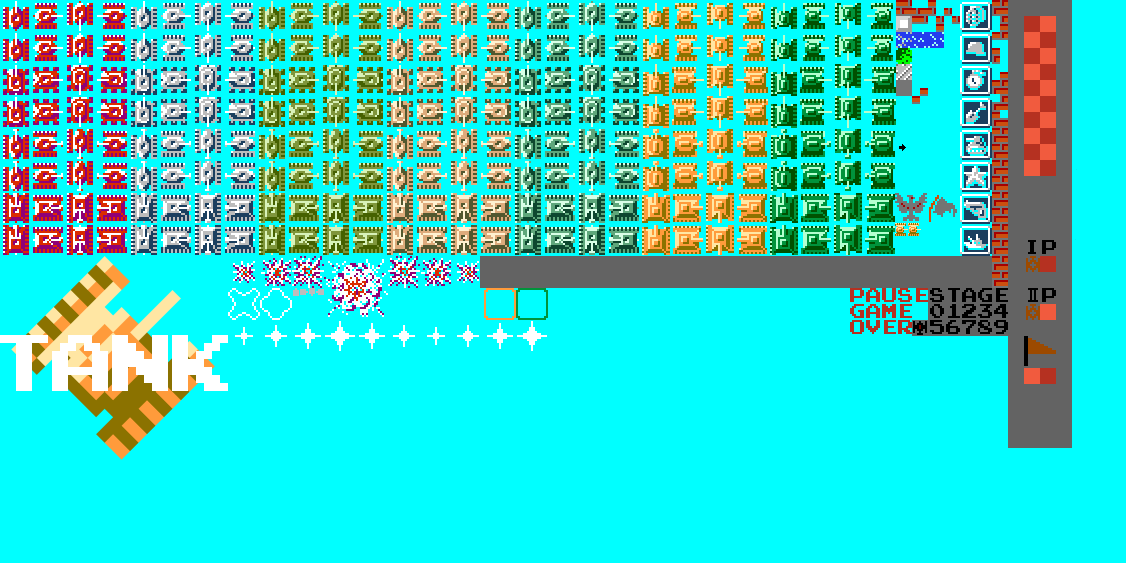
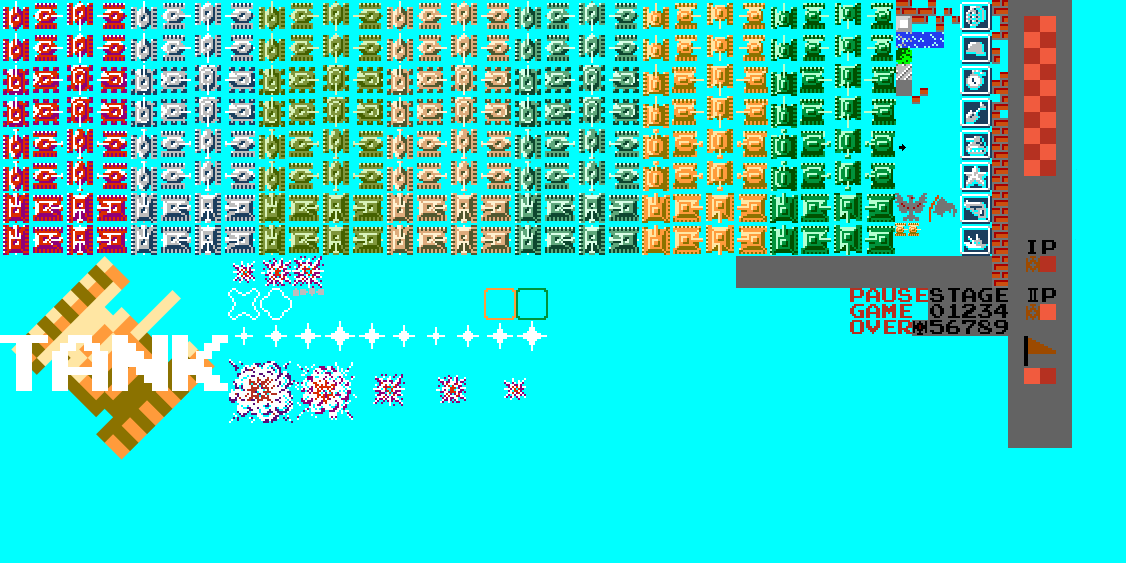
explosion animation for tanks

Changed region(s): [[0.2798, 0.4529, 0.6528, 0.5737], [0.1865, 0.6341, 0.4663, 0.7549]]

diff --git a/src/main/java/ua/drozda/battlecity/fx/sprites/FxSpriteBigExplosion.java b/src/main/java/ua/drozda/battlecity/fx/sprites/FxSpriteBigExplosion.java
@@ -1,0 +1,71 @@
+package ua.drozda.battlecity.fx.sprites;
+
+import javafx.geometry.Rectangle2D;
+import ua.drozda.battlecity.core.ActiveUnit;
+import ua.drozda.battlecity.core.GameUnit;
+import ua.drozda.battlecity.core.TankUnit;
+import ua.drozda.battlecity.fx.FxWorld;
+
+/**
+ * Created by GFH on 13.07.2015.
+ */
+public class FxSpriteBigExplosion extends FxSprite<TankUnit> {
+    static private Long explosionTimer = ActiveUnit.ONE_SECOND / 10;
+    private static Rectangle2D[] explosionTiles;
+
+    static {
+        explosionTiles = new Rectangle2D[5];
+        for (int i = 0; i < 5; i++) {
+            explosionTiles[i] = new Rectangle2D(229 + FxWorld.tileSize * 4 * i, 359, FxWorld
+                    .tileSize * 4, FxWorld.tileSize * 4);
+        }
+    }
+
+    public FxSpriteBigExplosion(TankUnit gameUnit) {
+        super(gameUnit);
+        xProperty().unbind();
+        yProperty().unbind();
+        xProperty().setValue(gameUnit.getX() - 16);
+        yProperty().setValue(gameUnit.getY() - 16);
+        gameUnit.xProperty().addListener((observable, oldValue, newValue) -> {
+            this.xProperty().setValue(newValue.doubleValue() - 16);
+            System.out.println("TanknewX = " + newValue.doubleValue());
+            System.out.println("TilenewX = " + xProperty().getValue());
+
+        });
+        gameUnit.yProperty().addListener((observable, oldValue, newValue) -> {
+            this.yProperty().setValue(newValue.doubleValue() - 16);
+            System.out.println("TanknewY = " + newValue.doubleValue());
+            System.out.println("TilenewY = " + yProperty().getValue());
+        });
+        maxToggle = 5;
+        setViewPort(explosionTiles[this.curToggle]);
+    }
+
+    @Override
+    public Boolean canToggle(Long now) {
+        return (getGameUnit().getBasicState() == GameUnit.BasicState.EXPLODING) && (now - toggleTime >= explosionTimer);
+    }
+
+    @Override
+    protected int getMaxToggle() {
+        return maxToggle;
+    }
+
+    @Override
+    protected void updateSprite() {
+        setViewPort(explosionTiles[this.curToggle]);
+    }
+
+    @Override
+    public void doToggle(Long now) {
+        if (curToggle < getMaxToggle()) {
+            updateSprite();
+            curToggle++;
+        }
+        if (curToggle == getMaxToggle()) {
+            curToggle = getMaxToggle() - 1;
+        }
+        toggleTime = now;
+    }
+}

diff --git a/src/main/java/ua/drozda/battlecity/fx/MainFXApplication.java b/src/main/java/ua/drozda/battlecity/fx/MainFXApplication.java
@@ -9,8 +9,10 @@ import javafx.scene.input.KeyCode;
 import javafx.scene.paint.Color;
 import javafx.stage.Stage;
 import ua.drozda.battlecity.core.ActiveUnit;
+import ua.drozda.battlecity.core.GameUnit;
 import ua.drozda.battlecity.core.TankUnit;
 import ua.drozda.battlecity.core.World;
+import ua.drozda.battlecity.fx.sprites.FxSpriteBigExplosion;
 import ua.drozda.battlecity.io.LevelLoader;
 
 import java.util.Collections;
@@ -87,6 +89,10 @@ public class MainFXApplication extends Application {
                         playGround.getChildren().addAll(fxGameUnit.getSprites().stream().map(s -> s.getImageView())
                                 .collect(Collectors.toList()));
                     }
+                    for (FxGameUnit fxGameUnit : fxWorld.fxGameUnitsList) {
+                        fxGameUnit.getSprites().stream().filter(fxSprite -> fxSprite instanceof FxSpriteBigExplosion)
+                                .map(fxSprite -> fxSprite.getImageView()).forEach(imageView -> imageView.toFront());
+                    }
                     FxBorder.enemiesCountProperty().bind(world.enemiesCountProperty());
                     FxBorder.firstPlayerLifesProperty().bind(firstPlayerTank.lifesCountProperty());
                     if (secondPlayerTank != null) {
@@ -151,9 +157,7 @@ public class MainFXApplication extends Application {
             firstPlayerTank.setEngineOn(true);
         }
         if (keyPressedEventHandler.isKeyDown(KeyCode.Z)) {
-            firstPlayerTank.setLifes(25);
-            world.setEnemiesCount(world.getEnemiesCount() - 1);
-            System.out.println(FxBorder.enemiesCountProperty());
+            firstPlayerTank.setBasicState(GameUnit.BasicState.EXPLODING);
         }
 
     }

diff --git a/src/main/java/ua/drozda/battlecity/fx/FxTankUnit.java b/src/main/java/ua/drozda/battlecity/fx/FxTankUnit.java
@@ -2,6 +2,7 @@ package ua.drozda.battlecity.fx;
 
 import ua.drozda.battlecity.core.GameUnit;
 import ua.drozda.battlecity.core.TankUnit;
+import ua.drozda.battlecity.fx.sprites.FxSpriteBigExplosion;
 import ua.drozda.battlecity.fx.sprites.FxSpriteCreation;
 import ua.drozda.battlecity.fx.sprites.FxSpriteShield;
 import ua.drozda.battlecity.fx.sprites.FxSpriteTank;
@@ -38,13 +39,23 @@ public class FxTankUnit extends FxGameUnit {
         }
         FxSpriteCreation creationSprite = new FxSpriteCreation(gameUnit);
         addSprite(creationSprite);
-        creationSprite.setVisible(true);
+        FxSpriteBigExplosion explosionSprite = new FxSpriteBigExplosion(gameUnit);
+        addSprite(explosionSprite);
         baseSprite.setVisible(false);
+        explosionSprite.setVisible(false);
+
         gameUnit.basicStateProperty().addListener((observable, oldValue, newValue) -> {
             if ((oldValue == GameUnit.BasicState.CREATING) &&
                     (newValue == GameUnit.BasicState.ACTIVE)) {
                 creationSprite.setVisible(false);
                 baseSprite.setVisible(true);
+            }
+            if (newValue == GameUnit.BasicState.EXPLODING) {
+                baseSprite.setVisible(false);
+                explosionSprite.setVisible(true);
+            }
+            if (newValue == GameUnit.BasicState.DEAD) {
+                explosionSprite.setVisible(false);
             }
         });
 

diff --git a/src/main/java/ua/drozda/battlecity/core/ActiveUnit.java b/src/main/java/ua/drozda/battlecity/core/ActiveUnit.java
@@ -45,7 +45,7 @@ public abstract class ActiveUnit extends GameUnit {
     }
 
     public void setDirection(Direction direction) {
-        if (direction != getDirection()) {
+        if ((direction != getDirection()) && (getBasicState() == BasicState.ACTIVE)) {
             fixPosition();
         }
         this.direction = direction;
@@ -164,7 +164,7 @@ public abstract class ActiveUnit extends GameUnit {
 
         protected boolean calcNewPosition(Long deltaTime) { // this method can be override in children
             setMoveAccumulator(getMoveAccumulator() + deltaTime);
-            if (isEngineOn() && (getMoveAccumulator() >= 1000000000 / 64)) {
+            if (isEngineOn() && (getMoveAccumulator() >= 1000000000 / 64) && (getBasicState() == BasicState.ACTIVE)) {
                 newX = ActiveUnit.this.getX();
                 newY = ActiveUnit.this.getY();
                 double deltaPosition = (Double.valueOf(getVelocity()));

diff --git a/src/main/java/ua/drozda/battlecity/fx/FxWorld.java b/src/main/java/ua/drozda/battlecity/fx/FxWorld.java
@@ -41,9 +41,9 @@ public class FxWorld implements Togglable {
 
 
     //     private static InputStream spritesStream = FxWorld.class.getResourceAsStream("../images/sprites.png");
-//    private static InputStream spritesStream = FxWorld.class.getResourceAsStream("../images/graphics_debug.png");
+    private static InputStream spritesStream = FxWorld.class.getResourceAsStream("../images/graphics_debug.png");
 
-    private static InputStream spritesStream = FxWorld.class.getResourceAsStream("../images/graphics.png");
+    //    private static InputStream spritesStream = FxWorld.class.getResourceAsStream("../images/graphics.png");
     public static volatile Image sprites = new Image(spritesStream);
     List<FxGameUnit> fxGameUnitsList = new ArrayList<>();
     // private FxTank firstPlayerTank;

diff --git a/src/main/java/ua/drozda/battlecity/core/GameUnit.java b/src/main/java/ua/drozda/battlecity/core/GameUnit.java
@@ -24,7 +24,7 @@ public abstract class GameUnit extends Observable {
     static {
         timeInState.put(BasicState.CREATING, 2 * ONE_SECOND);
         timeInState.put(BasicState.ACTIVE, 0L);
-        timeInState.put(BasicState.EXPLODING, 500000000L);
+        timeInState.put(BasicState.EXPLODING, ONE_SECOND / 2);
         timeInState.put(BasicState.DEAD, 0L);
     }
 

diff --git a/src/main/java/ua/drozda/battlecity/fx/sprites/FxSpriteTank.java b/src/main/java/ua/drozda/battlecity/fx/sprites/FxSpriteTank.java
@@ -93,7 +93,7 @@ public class FxSpriteTank extends FxSprite<TankUnit> {
 
     @Override
     public void doToggle(Long now) {
-        curToggle = ++curToggle % maxToggle;
+        curToggle = ++curToggle % getMaxToggle();
         updateSprite();
         toggleTime = now;
     }
